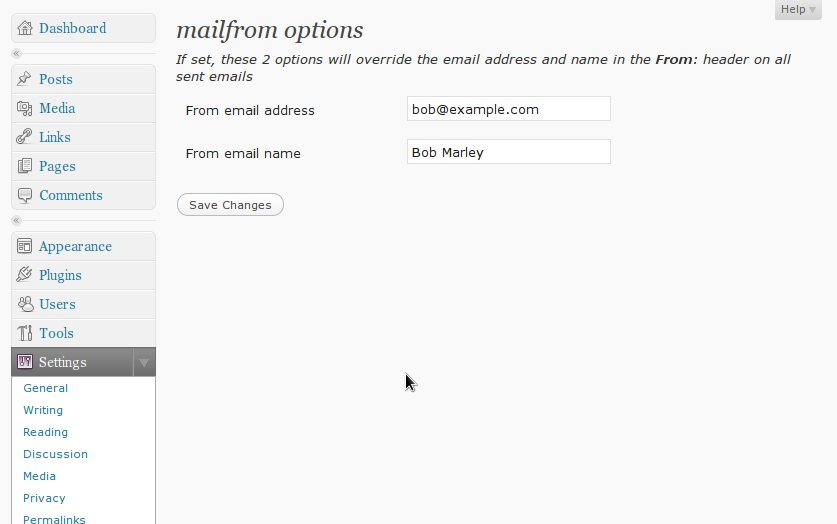
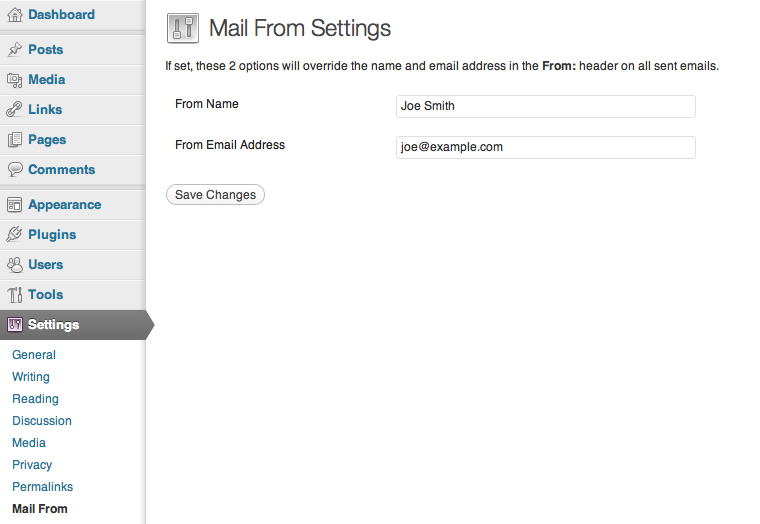
Version 1.0

diff --git a/wp-mailfrom.php b/wp-mailfrom.php
@@ -1,64 +1,188 @@
 <?php 
 
 /*
-Plugin Name: wp mail from
-Version: 0.6
+Plugin Name: WP Mail From
+Version: 1.0
 Plugin URI: http://wordpress.org/extend/plugins/wp-mailfrom/
-Description: This plugin allows you to set the From header on emails sent by wordpress
-Author: Tristan Aston
+Description: Allows you to configure the default email address and name used for emails sent by WordPress.
+Author: Tristan Aston, updated by Ben Huson
 
-Copyright (c) 2009
+Copyright (c) 2009-2012, 
 Released under the GPL license
 http://www.gnu.org/licenses/gpl.txt
 */
 
-function site_mail_from_option_page() {
-  ?>
-  <div class="wrap">
-  <h2>mailfrom options</h2>
-  <i>If set, these 2 options will override the email address and name in the <strong>From:</strong> header on all sent emails</i>
-  <form method="post" action="options.php">
-  <?php wp_nonce_field('update-options'); ?>
-  <table class="form-table">
-  <tr><th scope="row">From email address</th>
-  <td><input type="text" name="site_mail_from_email" value="<?php echo get_option('site_mail_from_email'); ?>" /></td></tr>
-  <tr><th scope="row">From email name</th>
-  <td><input type="text" name="site_mail_from_name" value="<?php echo get_option('site_mail_from_name'); ?>" /></td></tr>
-  </table>
-  <input type="hidden" name="action" value="update" />
-  <input type="hidden" name="page_options" value="site_mail_from_email,site_mail_from_name" />
-  <p class="submit">
-  <input type="submit" name="Submit" value="<?php _e('Save Changes') ?>" />
-  </p>
-  </form>
-  </div>
-  <?php
+class WP_MailFrom {
+
+	/**
+	 * Constructor
+	 */
+	function WP_MailFrom() {
+		add_action( 'admin_init', array( $this, 'wp_mailfrom_settings' ) );
+		add_action( 'admin_menu', array( $this, 'admin_menu' ) );
+		
+		// Name and email filter
+		add_filter( 'wp_mail_from_name', array( $this, 'wp_mail_from_name' ), 1 );
+		add_filter( 'wp_mail_from', array( $this, 'wp_mail_from' ), 1 );
+		
+		// Legacy support for old options - just in case someone used this directly!
+		add_filter( 'pre_option_site_mail_from_name', 'get_option_site_mail_from_name', 1 );
+		add_filter( 'pre_option_site_mail_from_email', 'get_option_site_mail_from_email', 1 );
+	}
+	
+	/**
+	 * Filter: wp_mail_from_name
+	 *
+	 * @param string $name Default name.
+	 * @return string $name WP Mail From name.
+	 */
+	function wp_mail_from_name( $name ) {
+		$wp_mailfrom_name = get_option( 'wp_mailfrom_name', '' );
+		if ( ! empty( $wp_mailfrom_name ) ) {
+			return $wp_mailfrom_name;
+		}
+		return $name;
+	}
+	
+	/**
+	 * Filter: wp_mail_from
+	 *
+	 * @param string $name Default email.
+	 * @return string $name WP Mail From email.
+	 */
+	function wp_mail_from( $email ) {
+		$wp_mailfrom_email = get_option( 'wp_mailfrom_email', '' );
+		if ( ! empty( $wp_mailfrom_email ) ) {
+			return $wp_mailfrom_email;
+		}
+		return $email;
+	}
+	
+	/**
+	 * Admin Menu
+	 */
+	function admin_menu() {
+		add_options_page( __( 'WP Mail From Plugin', 'wp_mailfrom' ), __( 'Mail From', 'wp_mailfrom' ), 'manage_options', 'wp_mailfrom', array( $this, 'settings_page' ) );
+	}
+	
+	/**
+	 * Settings Page
+	 */
+	function settings_page() {
+		?>
+		<div class="wrap">
+			<div id="icon-options-general" class="icon32"><br></div>
+			<h2><?php _e( 'Mail From Settings', 'wp_mailfrom' ); ?></h2>
+			<form action="options.php" method="post">
+				<?php
+				settings_fields( 'wp_mailfrom' );
+				do_settings_sections( 'wp_mailfrom' );
+				?>
+				<p class="submit"><input name="submit" type="submit" value="<?php esc_attr_e( 'Save Changes' ); ?>" /></p>
+			</form>
+		</div>
+		<?php
+	}
+	
+	/**
+	 * Settings API
+	 */
+	function wp_mailfrom_settings() {
+		add_settings_section(
+			'wp_mailfrom',
+			'',
+			array( $this, 'wp_mailfrom_settings_section' ),
+			'wp_mailfrom'
+		);
+		add_settings_field(
+			'wp_mailfrom_name',
+			__( 'From Name', 'wp_mailfrom' ),
+			array( $this, 'wp_mailfrom_name_field' ),
+			'wp_mailfrom',
+			'wp_mailfrom'
+		);
+		add_settings_field(
+			'wp_mailfrom_email',
+			__( 'From Email Address', 'wp_mailfrom' ),
+			array( $this, 'wp_mailfrom_email_field' ),
+			'wp_mailfrom',
+			'wp_mailfrom'
+		);
+ 		register_setting( 'wp_mailfrom', 'wp_mailfrom_name', array( $this, 'sanitize_wp_mailfrom_name' ) );
+ 		register_setting( 'wp_mailfrom', 'wp_mailfrom_email', 'is_email' );
+	}
+
+	/**
+	 * Sanitize Mail From Name
+	 * Strips out all HTML, scripts...
+	 *
+	 * @param string $val Name.
+	 * @return string Sanitized name.
+	 */
+	function sanitize_wp_mailfrom_name( $val ) {
+		return wp_kses( $val, array() );
+	}
+
+	/**
+	 * Mail From Settings Section
+	 */
+	function wp_mailfrom_settings_section() {
+		echo '<p>' . __( 'If set, these 2 options will override the name and email address in the <strong>From:</strong> header on all sent emails.', 'wp_mailfrom' ) . '</p>';
+	}
+
+	/**
+	 * Mail From Name Field
+	 */
+	function wp_mailfrom_name_field() {
+		echo '<input name="wp_mailfrom_name" type="text" id="wp_mailfrom_name" value="' . get_option( 'wp_mailfrom_name', '' ) . '" class="regular-text" />';
+	}
+
+	/**
+	 * Mail From Email Field
+	 */
+	function wp_mailfrom_email_field() {
+		echo '<input name="wp_mailfrom_email" type="text" id="wp_mailfrom_email" value="' . get_option( 'wp_mailfrom_email', '' ) . '" class="regular-text" />';
+	}
+	
+	/**
+	 * Legacy support for get_option( 'site_mail_from_name' )
+	 */
+	function get_option_site_mail_from_name( $option, $default = false ) {
+		return get_option( 'wp_mailfrom_name', $default );
+	}
+	
+	/**
+	 * Legacy support for get_option( 'site_mail_from_email' )
+	 */
+	function get_option_site_mail_from_email( $option, $default = false ) {
+		return get_option( 'wp_mailfrom_email', $default );
+	}
+	
+	/**
+	 * Register Activation
+	 * Perform upgrades etc.
+	 */
+	function register_activation() {
+		
+		// Temporarily remove our filter which provide support for legacy options
+		remove_filter( 'pre_option_site_mail_from_name', 'get_option_site_mail_from_name', 1 );
+		remove_filter( 'pre_option_site_mail_from_email', 'get_option_site_mail_from_email', 1 );
+		
+		// Get old option value and try to assign them to new options
+		$name = get_option( 'site_mail_from_name', '' );
+		$email = get_option( 'site_mail_from_email', '' );
+		$name_updated = add_option( 'wp_mailfrom_name', $name );
+		$email_updated = add_option( 'wp_mailfrom_email', $email );
+		
+		// If new options created delete old options
+		if ( $name_updated )
+			delete_option( 'site_mail_from_name' );
+		if ( $email_updated )
+			delete_option( 'site_mail_from_email' );
+	}
+	
 }
 
-function site_mail_from_menu () {
-  add_options_page('mailfrom plugin', 'wp mail from', 9, __FILE__, 'site_mail_from_option_page');
-}
-
-function site_mail_from ($mail_from_email) {
-  $site_mail_from_email = get_option('site_mail_from_email');
-  if(empty($site_mail_from_email)) {
-    return $mail_from_email;
-  }
-  else {
-    return $site_mail_from_email;
-  }
-}
-
-function site_mail_from_name ($mail_from_name) {
-  $site_mail_from_name = get_option('site_mail_from_name');
-  if(empty($site_mail_from_name)) {
-    return $mail_from_name;
-  }
-  else {
-    return $site_mail_from_name;
-  }
-}
-
-add_action('admin_menu', 'site_mail_from_menu');
-add_filter('wp_mail_from','site_mail_from',1);
-add_filter('wp_mail_from_name','site_mail_from_name',1);
+global $WP_MailFrom;
+$WP_MailFrom = new WP_MailFrom();
+register_activation_hook( __FILE__, array( $WP_MailFrom, 'register_activation' ) );
